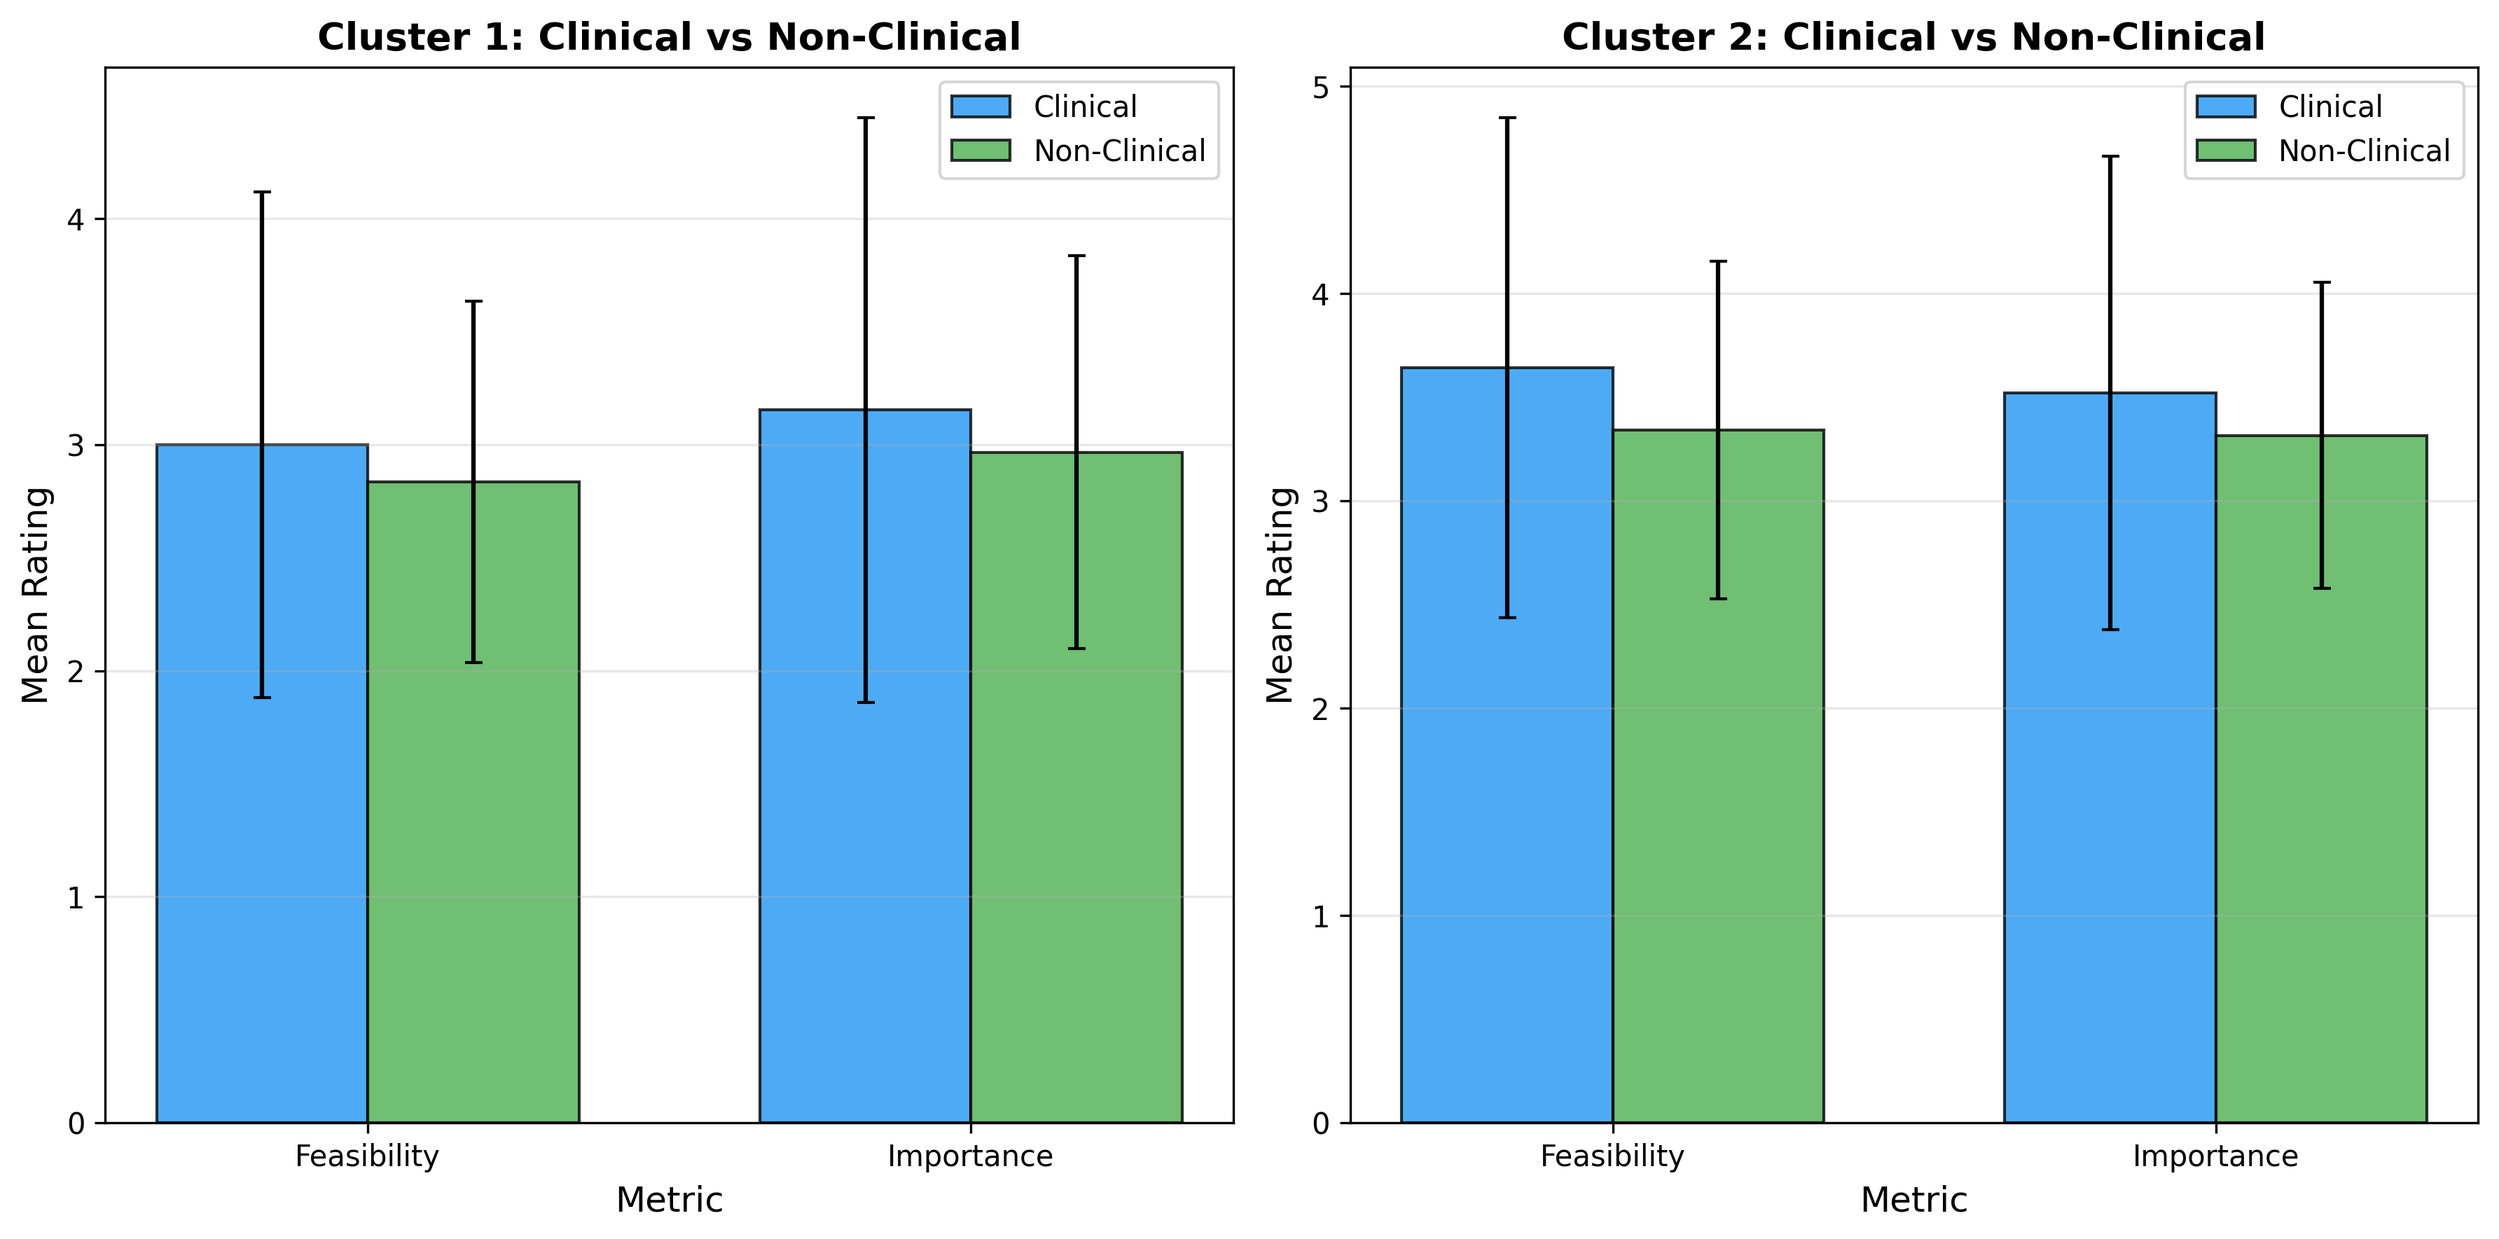
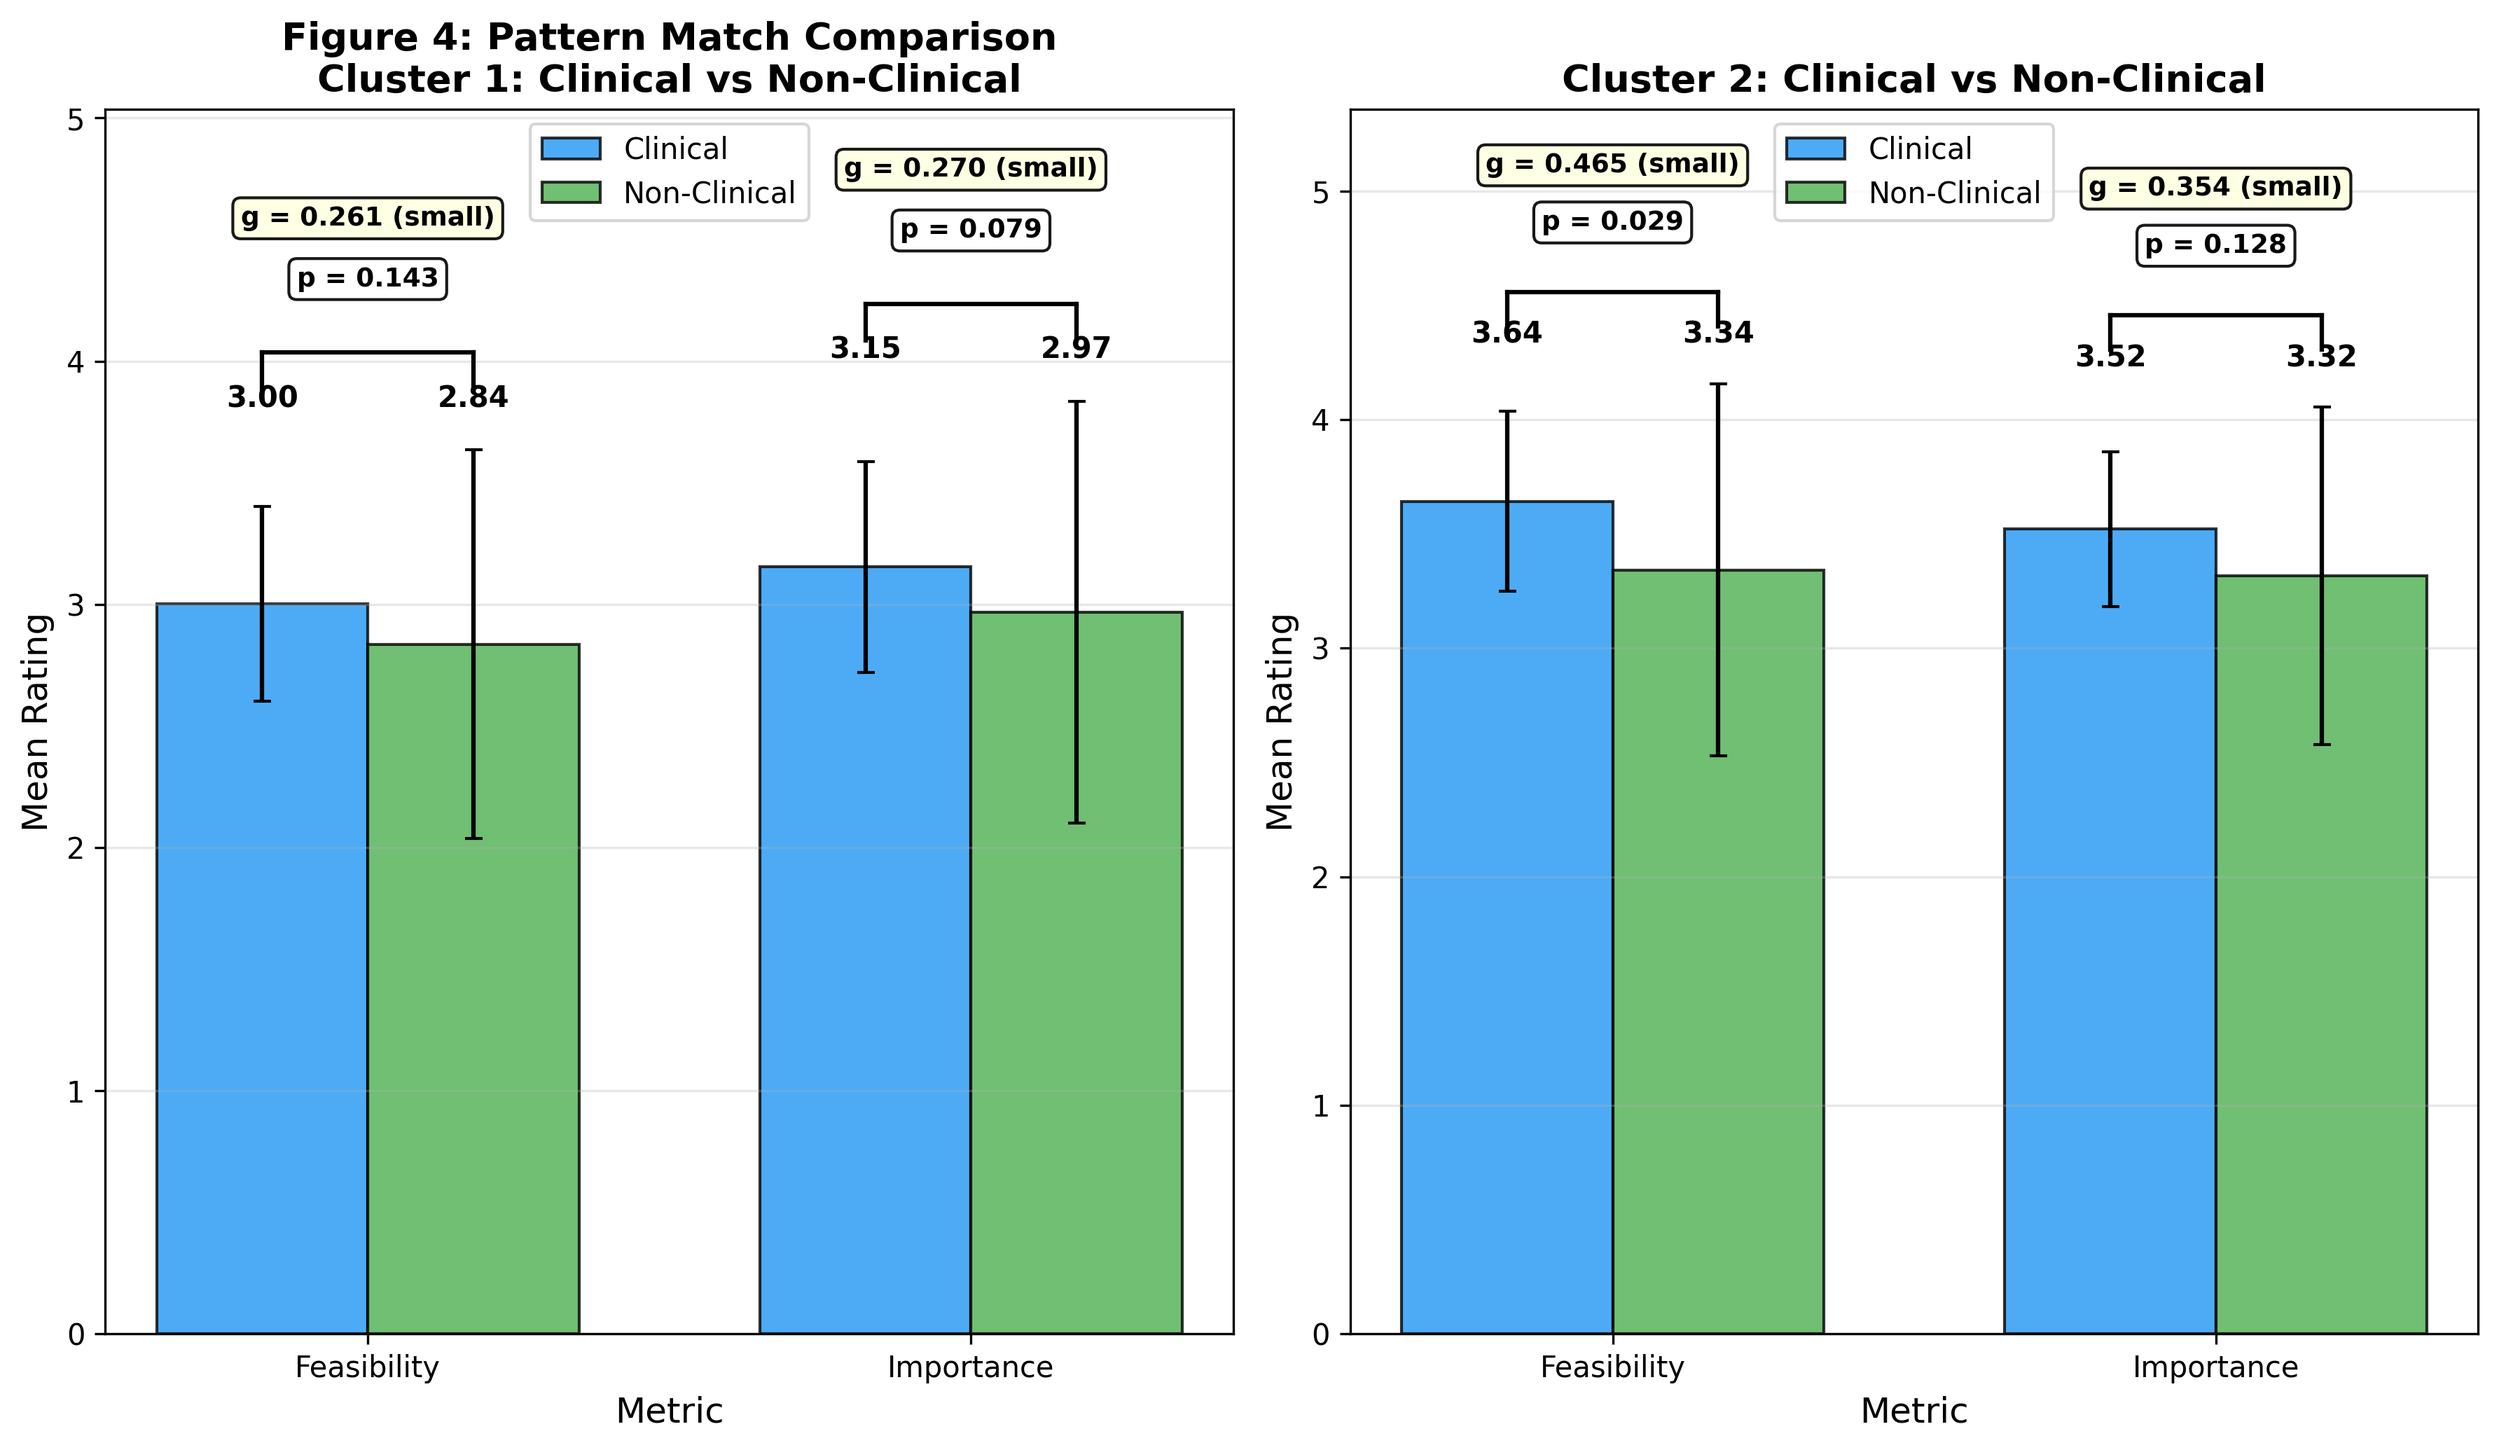
Update Figure 4: Add rating values, p-values, and Hedge's g with proper spacing

diff --git a/pyconceptmap/visualizer.py b/pyconceptmap/visualizer.py
@@ -910,6 +910,7 @@ class ConceptMapVisualizer:
                                      save: bool = True) -> plt.Figure:
         """
         Create two-bar pattern match plot (clinical vs non-clinical) for each cluster.
+        Includes rating values on bars, p-values, and Hedge's g with interpretation.
         
         Parameters
         ----------
@@ -935,12 +936,25 @@ class ConceptMapVisualizer:
         n_clusters = len(clusters)
         n_metrics = len(metrics)
         
-        fig, axes = plt.subplots(1, n_clusters, figsize=(6 * n_clusters, 6))
+        # Increase figure height to accommodate annotations
+        fig, axes = plt.subplots(1, n_clusters, figsize=(6 * n_clusters, 7))
         
         if n_clusters == 1:
             axes = [axes]
         
         vibrant_colors = ['#2196F3', '#4CAF50']  # Blue for Clinical, Green for Non-Clinical
+        
+        def interpret_hedges_g(g):
+            """Interpret Hedge's g effect size."""
+            abs_g = abs(g)
+            if abs_g < 0.2:
+                return "negligible"
+            elif abs_g < 0.5:
+                return "small"
+            elif abs_g < 0.8:
+                return "medium"
+            else:
+                return "large"
         
         for cluster_idx, cluster_id in enumerate(clusters):
             ax = axes[cluster_idx]
@@ -951,6 +965,10 @@ class ConceptMapVisualizer:
             
             clinical_means = []
             nonclinical_means = []
+            clinical_stds = []
+            nonclinical_stds = []
+            p_values = []
+            hedges_g_values = []
             
             for metric in metrics:
                 metric_data = cluster_data[cluster_data['Metric'] == metric]
@@ -958,9 +976,17 @@ class ConceptMapVisualizer:
                     row = metric_data.iloc[0]
                     clinical_means.append(row['Clinical_mean'])
                     nonclinical_means.append(row['Non-Clinical_mean'])
+                    clinical_stds.append(row['Clinical_std'])
+                    nonclinical_stds.append(row['Non-Clinical_std'])
+                    p_values.append(row.get('p_Welch', np.nan))
+                    hedges_g_values.append(row.get('Hedges_g', np.nan))
                 else:
                     clinical_means.append(0)
                     nonclinical_means.append(0)
+                    clinical_stds.append(0)
+                    nonclinical_stds.append(0)
+                    p_values.append(np.nan)
+                    hedges_g_values.append(np.nan)
             
             bars1 = ax.bar(x_pos - width/2, clinical_means, width, 
                           label='Clinical', color=vibrant_colors[0], alpha=0.8, edgecolor='black')
@@ -969,22 +995,114 @@ class ConceptMapVisualizer:
             
             # Add error bars
             for i, metric in enumerate(metrics):
-                metric_data = cluster_data[cluster_data['Metric'] == metric]
-                if len(metric_data) > 0:
-                    row = metric_data.iloc[0]
-                    ax.errorbar(i - width/2, row['Clinical_mean'], 
-                               yerr=row['Clinical_std'], fmt='none', color='black', capsize=3)
-                    ax.errorbar(i + width/2, row['Non-Clinical_mean'],
-                               yerr=row['Non-Clinical_std'], fmt='none', color='black', capsize=3)
+                ax.errorbar(i - width/2, clinical_means[i], 
+                           yerr=clinical_stds[i], fmt='none', color='black', capsize=3)
+                ax.errorbar(i + width/2, nonclinical_means[i],
+                           yerr=nonclinical_stds[i], fmt='none', color='black', capsize=3)
+            
+            # First, calculate maximum height needed for proper spacing
+            max_height = 0
+            max_annotation_height = 0
+            for i in range(len(metrics)):
+                # Calculate max bar height (bar + error bar)
+                max_bar_height = max(clinical_means[i] + clinical_stds[i], 
+                                   nonclinical_means[i] + nonclinical_stds[i])
+                max_height = max(max_height, max_bar_height)
+                
+                # Calculate positions: rating values, then bracket, then annotations
+                # Rating values go above bars with error bars
+                rating_value_y = max_bar_height + 0.15
+                # Bracket goes well above rating values to avoid overlap
+                bracket_y = rating_value_y + 0.25
+                # P-value and Hedge's g go above bracket
+                p_value_y = bracket_y + 0.25
+                hedges_g_y = p_value_y + 0.25
+                
+                # Track the highest annotation point (add padding for text height)
+                max_annotation_height = max(max_annotation_height, hedges_g_y + 0.3)
+            
+            # Set y-axis limit before adding text to ensure nothing gets clipped
+            ax.set_ylim(bottom=0, top=max_annotation_height)
+            
+            # Add rating values on top of bars
+            for i in range(len(metrics)):
+                max_bar_height = max(clinical_means[i] + clinical_stds[i], 
+                                   nonclinical_means[i] + nonclinical_stds[i])
+                rating_value_y = max_bar_height + 0.15
+                
+                # Clinical bar value
+                ax.text(i - width/2, rating_value_y, 
+                       f'{clinical_means[i]:.2f}', 
+                       ha='center', va='bottom', fontsize=10, fontweight='bold')
+                # Non-Clinical bar value
+                ax.text(i + width/2, rating_value_y, 
+                       f'{nonclinical_means[i]:.2f}', 
+                       ha='center', va='bottom', fontsize=10, fontweight='bold')
+            
+            # Add p-values and Hedge's g between bars
+            for i in range(len(metrics)):
+                max_bar_height = max(clinical_means[i] + clinical_stds[i], 
+                                   nonclinical_means[i] + nonclinical_stds[i])
+                
+                # Position for rating values (already added above)
+                rating_value_y = max_bar_height + 0.15
+                # Position for bracket (well above rating values)
+                bracket_y = rating_value_y + 0.25
+                
+                # Position for annotations (above the bracket)
+                p_value_y = bracket_y + 0.25
+                hedges_g_y = p_value_y + 0.25
+                
+                # Format p-value
+                if not np.isnan(p_values[i]):
+                    if p_values[i] < 0.001:
+                        p_text = "p < 0.001"
+                    elif p_values[i] < 0.01:
+                        p_text = f"p = {p_values[i]:.3f}"
+                    else:
+                        p_text = f"p = {p_values[i]:.3f}"
+                else:
+                    p_text = "p = N/A"
+                
+                # Format Hedge's g with interpretation
+                if not np.isnan(hedges_g_values[i]):
+                    g_interpretation = interpret_hedges_g(hedges_g_values[i])
+                    g_text = f"g = {hedges_g_values[i]:.3f} ({g_interpretation})"
+                else:
+                    g_text = "g = N/A"
+                
+                # Add bracket/line connecting the bars (with vertical lines at ends)
+                # Vertical lines start just above the rating values
+                bracket_start_y = rating_value_y + 0.1
+                ax.plot([i - width/2, i + width/2], [bracket_y, bracket_y], 
+                       'k-', linewidth=1.5)
+                ax.plot([i - width/2, i - width/2], [bracket_start_y, bracket_y], 
+                       'k-', linewidth=1.5)
+                ax.plot([i + width/2, i + width/2], [bracket_start_y, bracket_y], 
+                       'k-', linewidth=1.5)
+                
+                # Add p-value text
+                ax.text(i, p_value_y, p_text, 
+                       ha='center', va='bottom', fontsize=9, fontweight='bold',
+                       bbox=dict(boxstyle='round,pad=0.3', facecolor='white', alpha=0.9, edgecolor='black', linewidth=1))
+                
+                # Add Hedge's g text
+                ax.text(i, hedges_g_y, g_text, 
+                       ha='center', va='bottom', fontsize=9, fontweight='bold',
+                       bbox=dict(boxstyle='round,pad=0.3', facecolor='lightyellow', alpha=0.9, edgecolor='black', linewidth=1))
             
             ax.set_xlabel('Metric', fontsize=12)
             ax.set_ylabel('Mean Rating', fontsize=12)
-            ax.set_title(f'Cluster {cluster_id}: Clinical vs Non-Clinical', fontsize=13, fontweight='bold')
+            if cluster_idx == 0:
+                ax.set_title(f'Figure 4: Pattern Match Comparison\nCluster {cluster_id}: Clinical vs Non-Clinical', 
+                           fontsize=13, fontweight='bold')
+            else:
+                ax.set_title(f'Cluster {cluster_id}: Clinical vs Non-Clinical', 
+                           fontsize=13, fontweight='bold')
             ax.set_xticks(x_pos)
             ax.set_xticklabels(metrics)
             ax.legend(fontsize=10)
             ax.grid(True, alpha=0.3, axis='y')
-            ax.set_ylim(bottom=0)
         
         plt.tight_layout()
         
